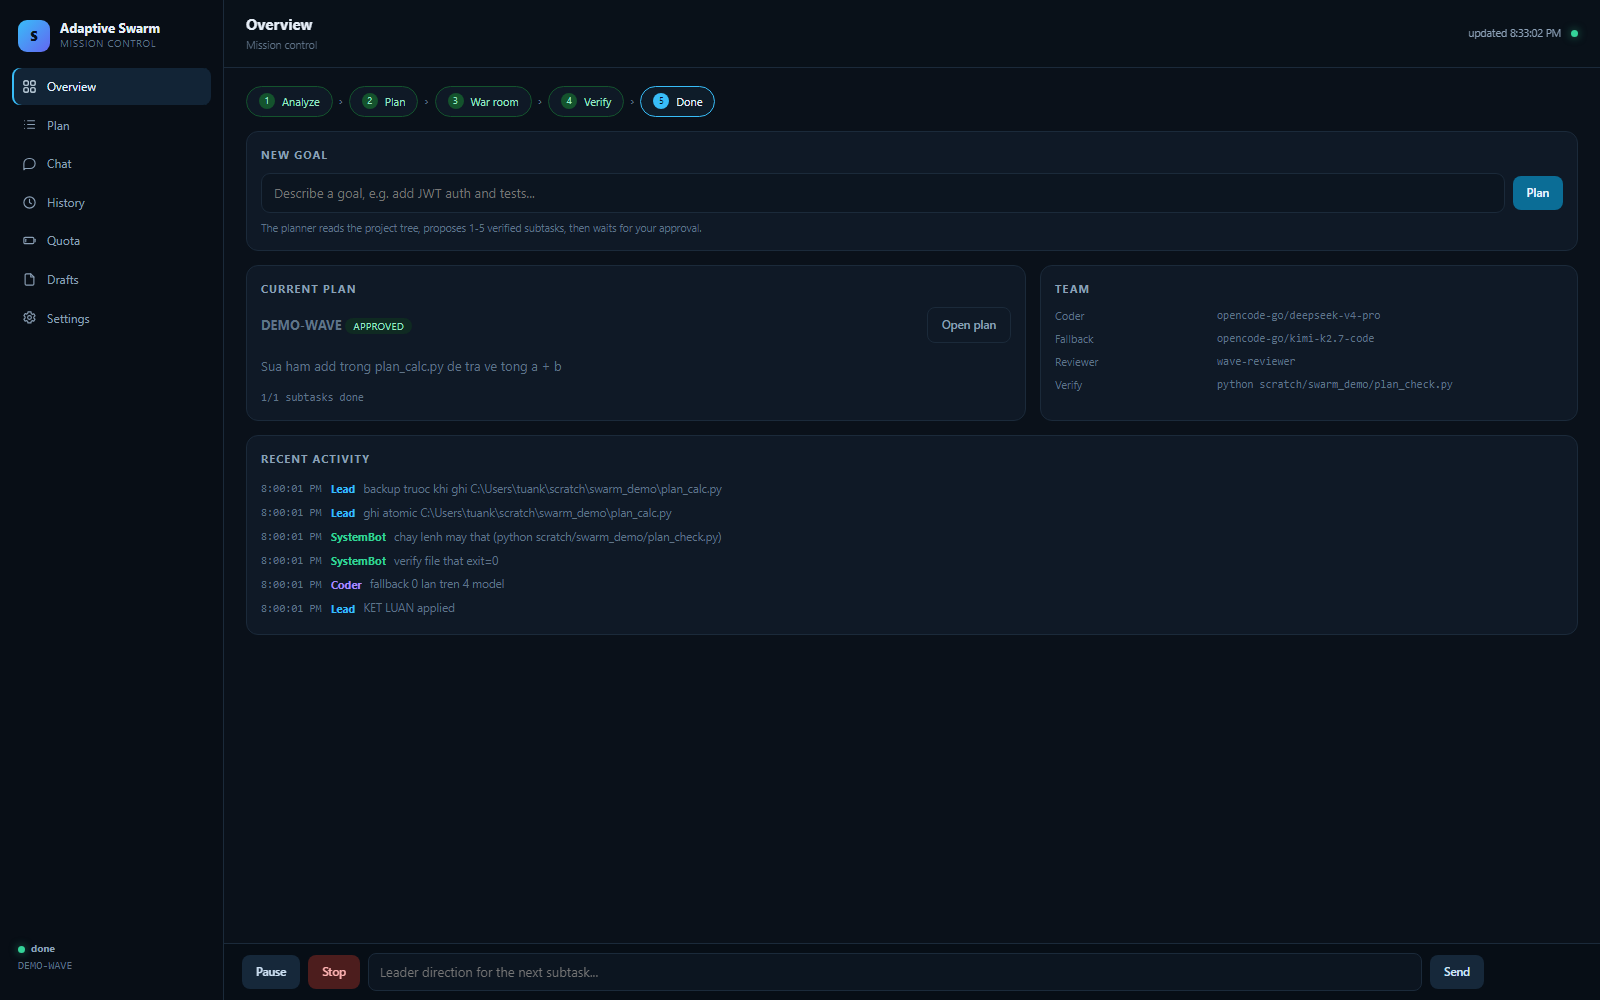
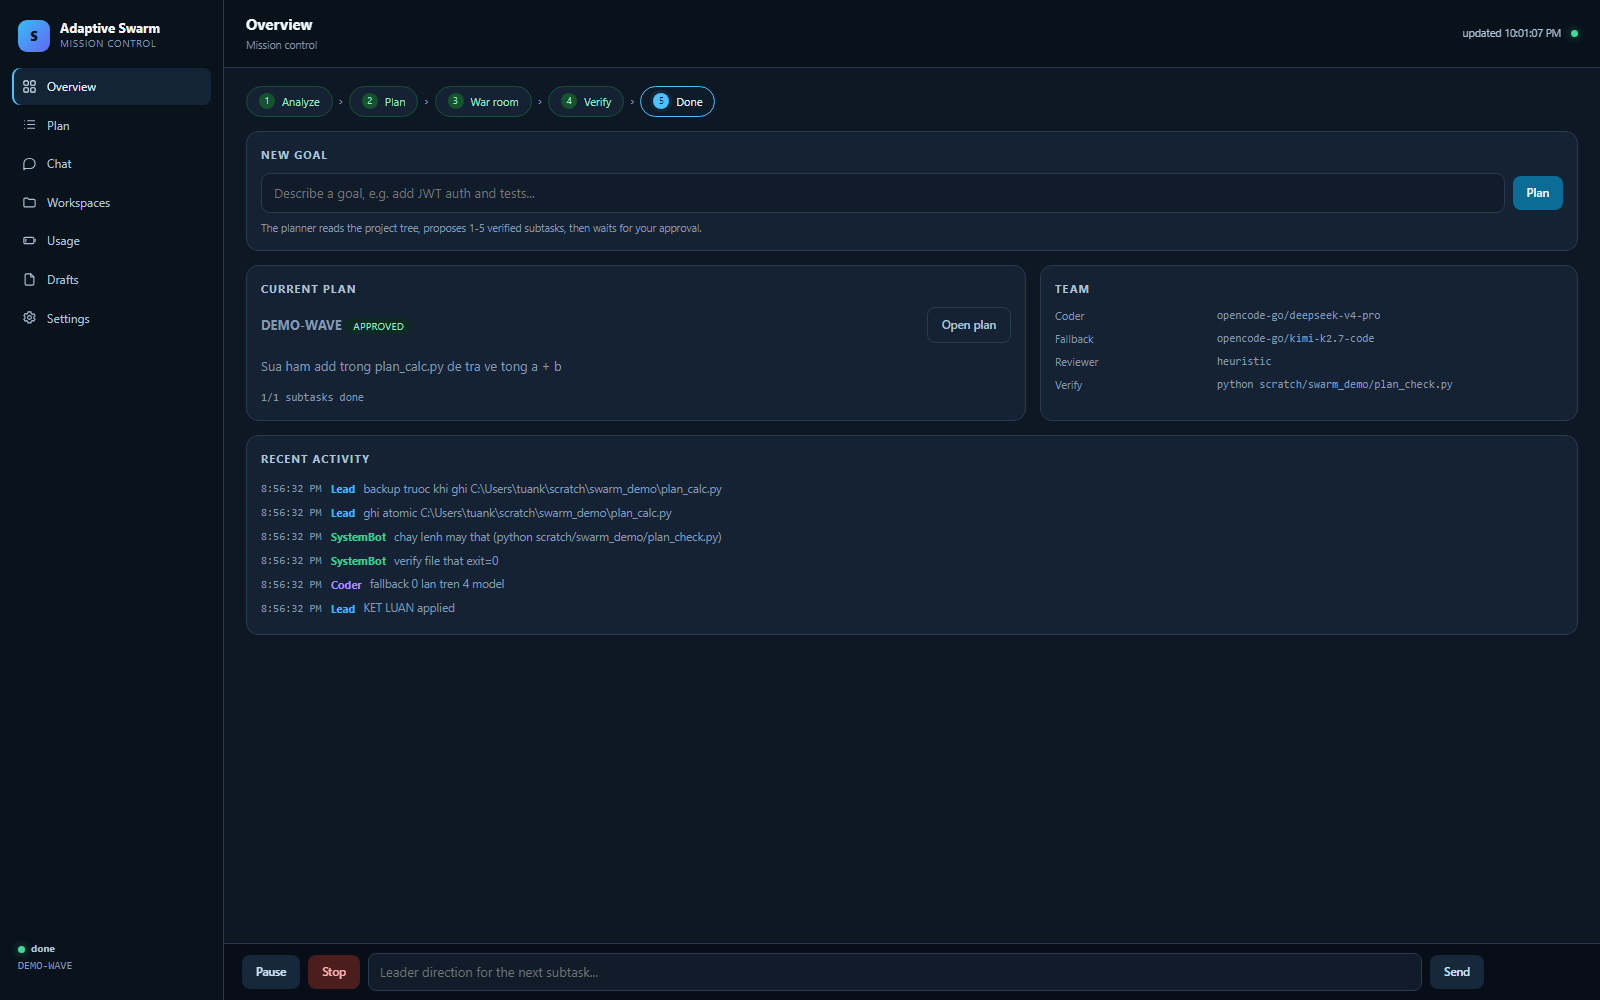
feat: console-style usage limits, hourly chart, clearer tables

diff --git a/.agents/dashboard_ui.html b/.agents/dashboard_ui.html
@@ -97,9 +97,10 @@
   .btn.ghost{background:transparent;border:1px solid var(--line);color:var(--dim)}
   /* tables */
   table{width:100%;border-collapse:collapse}
-  th{text-align:left;color:var(--dim2);font-size:9.5px;text-transform:uppercase;
-     letter-spacing:.7px;padding:6px;border-bottom:1px solid var(--line);font-weight:600}
-  td{padding:7px 6px;border-bottom:1px solid #12202e;vertical-align:top}
+  th{text-align:left;color:#b9cde2;font-size:10px;text-transform:uppercase;
+     letter-spacing:.7px;padding:7px 6px;border-bottom:1px solid var(--line);font-weight:600}
+  td{padding:8px 6px;border-bottom:1px solid #1d2d3e;vertical-align:top;
+     color:#e8f1fa;font-size:12.5px}
   tr:last-child td{border-bottom:0}
   tbody tr.click{cursor:pointer;transition:background .12s}
   tbody tr.click:hover{background:#0d1a27}
@@ -150,6 +151,19 @@
   .track i.warn{background:var(--warn)}.track i.bad{background:var(--bad)}
   .qbar .val{width:52px;text-align:right;font:10.5px Consolas,monospace;color:var(--dim)}
   .qhead{display:grid;grid-template-columns:1fr 90px;gap:8px;align-items:center}
+  .hourly{display:flex;align-items:flex-end;gap:3px;height:140px;padding:10px 2px 0;
+          border-bottom:1px solid var(--line)}
+  .hslot{flex:1;display:flex;flex-direction:column;justify-content:flex-end;
+         align-items:center;gap:3px;height:100%}
+  .hbar{width:100%;background:#3d5a75;border-radius:3px 3px 0 0;min-height:2px;
+        transition:height .3s,background .15s}
+  .hbar:hover{background:var(--accent)}
+  .hx{font-size:8.5px;color:var(--dim2);height:12px}
+  .limitrow{display:flex;align-items:center;gap:12px;margin:10px 0}
+  .limitrow .lab{width:72px;font-size:12px;color:var(--fg)}
+  .limitrow .track{flex:1;height:9px}
+  .limitrow .pct{width:86px;text-align:right;font-weight:650;font-size:12px}
+  .limitrow .reset{width:124px;text-align:right;font-size:10.5px;color:var(--dim2)}
   /* drafts */
   .draftrow{display:flex;justify-content:space-between;gap:10px;padding:9px 10px;
             border:1px solid var(--line);border-radius:8px;margin-bottom:6px;
@@ -310,7 +324,16 @@
 
     <!-- USAGE -->
     <section class="view" id="view-quota">
-      <div class="grid g4" id="spendCards"></div>
+      <div class="grid g3" id="spendCards"></div>
+      <div class="card" id="limitCard" style="margin-top:14px"></div>
+      <div class="card" style="margin-top:14px">
+        <div class="spread"><h2 style="margin:0">Hourly usage</h2>
+          <div class="tabs">
+            <button id="hourCost" class="active" onclick="hourlyMode('cost')">Cost</button>
+            <button id="hourTokens" onclick="hourlyMode('tokens')">Tokens</button>
+          </div></div>
+        <div id="hourly" class="hourly"></div>
+      </div>
       <div class="card" style="margin-top:14px">
         <div class="spread"><h2 style="margin:0">Models (rolling windows)</h2>
           <span id="quotaChecked" class="muted mono"></span></div>
@@ -408,6 +431,7 @@ const STATUS_CLASS = (s) => ['applied','pass','ok','approved','done'].includes(s
 const state = {
   view:'overview', runs:[], selected:null, run:null, diff:null, job:null, planState:null,
   quota:null, health:null, drafts:null, workspaces:[], chatTab:'timeline', follow:false,
+  hourlyMode:'cost',
   token:new URLSearchParams(location.search).get('token') || '', sessionToken:'',
   lastQuota:0, sig:{}
 };
@@ -694,20 +718,59 @@ function bar(value, max=100){
   return `<div class="track"><i class="${cls}" style="width:${pct}%"></i></div>`;
 }
 
-function spendCard(label, spend){
-  const value = spend || {};
+function metricCard(label, value, hint){
   return `<div class="card"><h2>${label}</h2>
-    <div style="font-size:22px;font-weight:650">$${(value.cost || 0).toFixed(2)}</div>
-    <div class="muted mono">${num(value.requests)} req · ${num(value.tokens_in)} / ${num(value.tokens_out)} tok</div></div>`;
+    <div style="font-size:24px;font-weight:650">${value}</div>
+    <div class="muted mono">${hint}</div></div>`;
 }
 
 function renderUsage(){
   const quota = state.quota || {};
   const spend = quota.spend || {};
-  $('#spendCards').innerHTML = [
-    ['Today', spend.calendar_today], ['5h rolling', spend.today],
-    ['7 days', spend.week], ['30 days', spend.month]
-  ].map(([label, value]) => spendCard(label, value)).join('');
+  const today = spend.calendar_today || {};
+  const totalTokens = (today.tokens_in || 0) + (today.tokens_out || 0);
+  $('#spendCards').innerHTML =
+    metricCard('Cost', `$${(today.cost || 0).toFixed(2)}`, 'today') +
+    metricCard('Requests', num(today.requests), 'assistant messages') +
+    metricCard('Tokens', num(totalTokens),
+               `${num(today.tokens_in)} in / ${num(today.tokens_out)} out`);
+
+  const shared = quota.shared || {};
+  const windows = shared.windows || {};
+  const resets = quota.reset || {};
+  const rows = [['today', 'Rolling'], ['week', 'Weekly'], ['month', 'Monthly']];
+  const resetLabel = (ms) => {
+    if(!ms) return '';
+    const diff = Math.max(0, ms - Date.now());
+    const hours = Math.floor(diff / 3600000);
+    const minutes = Math.floor((diff % 3600000) / 60000);
+    return hours ? `resets in ${hours}h ${minutes}m` : `resets in ${minutes}m`;
+  };
+  $('#limitCard').innerHTML = `<div class="spread"><h2 style="margin:0">Go limits</h2>
+    <span class="muted" style="font-size:10.5px">local estimate · console is billing source</span></div>
+    ${rows.map(([key, label]) => {
+      const window = windows[key] || {};
+      const pct = window.pct || 0;
+      return `<div class="limitrow"><span class="lab">${label}</span>
+        ${bar(pct)}<span class="pct">${pct.toFixed(0)}% used</span>
+        <span class="reset">${resetLabel(resets[key])}</span></div>`;
+    }).join('')}`;
+
+  const hourly = quota.hourly || [];
+  const mode = state.hourlyMode || 'cost';
+  const values = hourly.map((bucket) => mode === 'cost' ? bucket.cost : bucket.tokens);
+  const peak = Math.max(...values, 0.0001);
+  $('#hourly').innerHTML = hourly.map((bucket, hour) => {
+    const value = values[hour] || 0;
+    const height = Math.max(2, Math.round(value / peak * 100));
+    const tip = mode === 'cost' ? '$' + value.toFixed(4) : num(value) + ' tokens';
+    return `<div class="hslot" title="${hour}:00 · ${tip}">
+      <div class="hbar" style="height:${height}%"></div>
+      <div class="hx">${hour % 4 === 0 ? hour : ''}</div></div>`;
+  }).join('');
+  $('#hourCost').classList.toggle('active', mode === 'cost');
+  $('#hourTokens').classList.toggle('active', mode !== 'cost');
+
   $('#quotaChecked').textContent = quota.fetched_at
     ? 'checked ' + new Date(quota.fetched_at * 1000).toLocaleTimeString() : '';
 
@@ -752,8 +815,12 @@ function renderUsage(){
     </tr>`).join('')}</tbody></table>`;
 }
 
-async function loadDrafts(){
-  const jobId = (state.job && state.job.state && state.job.state.job_id)
+function hourlyMode(mode){
+  state.hourlyMode = mode;
+  renderUsage();
+}
+
+async function loadDrafts(){  const jobId = (state.job && state.job.state && state.job.state.job_id)
     || (state.job && state.job.plan && state.job.plan.job_id) || '';
   if(!jobId){ $('#draftList').textContent = 'No active job.'; return; }
   try{

diff --git a/.agents/quota.py b/.agents/quota.py
@@ -204,6 +204,8 @@ class QuotaTracker:
         self.cache_ttl = cache_ttl
         self.usage: dict[str, dict[str, float]] = {name: {} for name in WINDOW_DAYS}
         self.spend: dict[str, dict] = {}
+        self.reset: dict[str, int] = {}
+        self.hourly: list[dict] = []
         self.requests: list[dict] = []
         self.message_count = 0
         self.available = False
@@ -222,6 +224,8 @@ class QuotaTracker:
         if cached and not force:
             self.usage = cached["usage"]
             self.spend = cached.get("spend") or {}
+            self.reset = cached.get("reset") or {}
+            self.hourly = cached.get("hourly") or []
             self.requests = cached.get("requests") or []
             self.message_count = int(cached.get("message_count") or 0)
             self.available = bool(cached.get("available"))
@@ -261,6 +265,8 @@ class QuotaTracker:
                     self.usage[window][model] = self.usage[window].get(model, 0.0) + message["cost"]
 
         self.spend = {}
+        self.reset = {}
+        self.hourly = [{"hour": hour, "cost": 0.0, "tokens": 0} for hour in range(24)]
         for window, cutoff in {**windows, "calendar_today": midnight}.items():
             selected = [message for message in messages if message["t"] >= cutoff]
             self.spend[window] = {
@@ -269,6 +275,20 @@ class QuotaTracker:
                 "tokens_in": sum(message["tokens_in"] for message in selected),
                 "tokens_out": sum(message["tokens_out"] for message in selected),
             }
+            if window == "calendar_today":
+                self.reset[window] = midnight + 86400 * 1000
+            else:
+                span = {"today": 5 * 3600, "week": 7 * 86400,
+                        "month": 30 * 86400}[window] * 1000
+                oldest = min((message["t"] for message in selected), default=None)
+                self.reset[window] = oldest + span if oldest else now + span
+        for message in messages:
+            if message["t"] >= midnight:
+                hour = time.localtime(message["t"] / 1000).tm_hour
+                self.hourly[hour]["cost"] += message["cost"]
+                self.hourly[hour]["tokens"] += message["tokens_in"] + message["tokens_out"]
+        for bucket in self.hourly:
+            bucket["cost"] = round(bucket["cost"], 4)
         self.requests = sorted(messages, key=lambda message: message["t"],
                                reverse=True)[:60]
         self.message_count = len(messages)
@@ -287,6 +307,7 @@ class QuotaTracker:
             self.cache_path.parent.mkdir(parents=True, exist_ok=True)
             payload = {"at": self.fetched_at, "available": self.available,
                        "error": self.error, "usage": self.usage, "spend": self.spend,
+                       "reset": self.reset, "hourly": self.hourly,
                        "requests": self.requests, "message_count": self.message_count}
             tmp = self.cache_path.with_suffix(".tmp")
             tmp.write_text(json.dumps(payload, ensure_ascii=False, indent=2),
@@ -356,6 +377,7 @@ class QuotaTracker:
         return {"available": self.available, "error": self.error,
                 "fetched_at": self.fetched_at, "plan_cap": self.plan_cap,
                 "shared": self.shared(), "spend": self.spend,
+                "reset": self.reset, "hourly": self.hourly,
                 "requests": self.requests, "message_count": self.message_count,
                 "usage": {window: dict(values) for window, values in self.usage.items()}}
 

diff --git a/.agents/README.md b/.agents/README.md
@@ -526,10 +526,11 @@ Thu tu uu tien tin hieu: W8 > W6 > W3 > W5 > W4 > W0 > W7 > W2 > W1.
 `validate_roles()` bat buoc main/escalate khac ho o W3/W5/W8. Dung:
 `python .agents/recipe_c.py --order order.json --route`.
 
-**Quota that:** `quota.py` doc `opencode stats --models --cost --json` (cung so lieu
-console) va cat theo HAI tran: (1) **ngan sach CHUNG cua plan** (~$14/thang; console
-hien Rolling/Weekly/Monthly dung chung cho moi model) va (2) **tran rieng tung model**
-($15/$60/$80). Ty le: 5h=20%, tuan=50%, thang=100%; free = vo han.
+**Quota that:** `quota.py` doc `opencode.db` (`session_message`: cost/token tung
+request) va tinh rolling 5h / 7d / 30d + hom nay. Hien thi **chi phi that**; phan %
+tren dashboard chi la uoc luong theo tran tai lieu ($15/$60/$80; 5h=20%, tuan=50%,
+thang=100%), khong phai so billing cua console. Fallback `opencode stats` da bo de
+tranh lech cua so.
 
 `--route` chon theo thu tu: **main** (con >=10%) -> **escalate** (chi khi con >=50%,
 hoac `--allow-escalate`) -> **fallback re/free** (deepseek/glm free) -> `exhausted`
